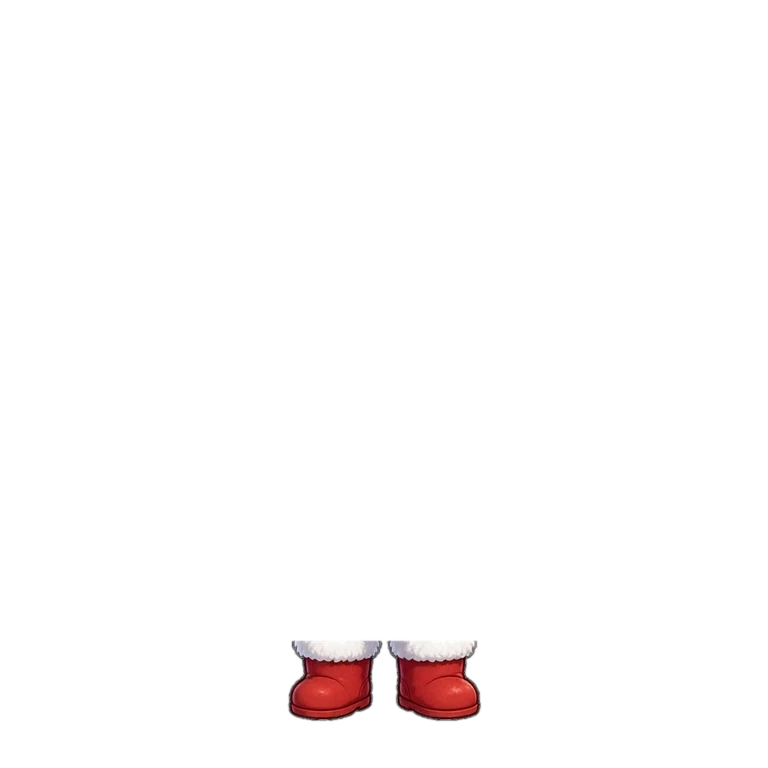
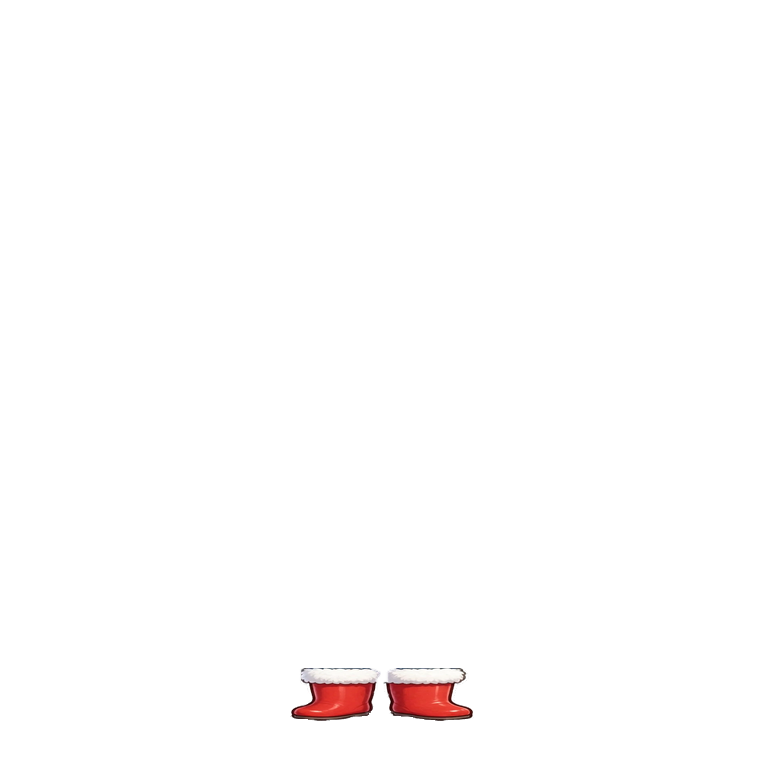
Pi: ủng đỏ viền lông trắng nam Muse vẽ riêng (vẽ thử nhóm Giày đạt) — giày vẽ riêng không chạy bộ làm sạch giày cũ
Claude-Session: https://claude.ai/code/session_0163KSZYdzHDud2uG42gs7mp

Changed region(s): [[0.375, 0.8125, 0.625, 0.9375]]

diff --git a/scripts/pi/build.py b/scripts/pi/build.py
@@ -96,7 +96,7 @@ for side in ("trai", "phai"):
 # 24/10 soát từng món: vệt lá cũ sót xa gốc lá (vùng rộng; KHÔNG áp chung vì vòng hoa có lá thật)
 # 24/10 tối (chủ dự án chốt): món Muse vẽ RIÊNG trên nền trong suốt → chỉ đặt đè lên, KHÔNG chạy bộ cắt lá / vụn (cắt nhầm mũ xanh lá)
 STANDALONE = {  # 25/10: món vẽ riêng đã duyệt ghép
-              "giangsinh-nam-dau01", "giangsinh-nam-dau02", "giangsinh-nam-dau03", "giangsinh-nam-dau04", "giangsinh-nam-dau05", "giangsinh-nam-pk03", "giangsinh-nam-pk12", "giangsinh-nu-dau01", "giangsinh-nu-dau02", "giangsinh-nu-dau04", "giangsinh-nu-pk03", "halloween-nam-dau01", "halloween-nam-dau02", "halloween-nam-dau05", "halloween-nam-pk04", "halloween-nu-dau01", "muadong-nam-dau01", "muadong-nam-dau02", "muadong-nam-dau03", "muadong-nam-dau05", "muadong-nam-pk01", "muadong-nam-pk02", "muadong-nam-pk11", "muadong-nu-dau01", "muadong-nu-dau03", "muadong-nu-dau04", "muadong-nu-pk01", "muadong-nu-pk02", "muahe-nam-dau01", "muahe-nam-dau02", "muahe-nam-dau03", "muahe-nam-dau04", "muahe-nam-pk12", "muahe-nu-dau01", "muahe-nu-dau02", "muahe-nu-dau04", "tet-nam-dau01", "tet-nam-dau02", "tet-nam-dau03", "tet-nam-dau04", "tet-nam-pk03", "tet-nam-pk11", "tet-nu-dau01", "tet-nu-dau02", "tet-nu-dau03", "tet-nu-dau05", "tet-nu-pk04", "tet-nu-pk11", "trungthu-nam-dau01", "trungthu-nam-dau02", "trungthu-nam-dau03", "trungthu-nam-dau04", "trungthu-nam-dau05", "trungthu-nam-pk09", "trungthu-nam-pk10", "trungthu-nam-pk11", "trungthu-nu-dau02", "trungthu-nu-dau05", "trungthu-nu-pk10"}
+              "giangsinh-nam-dau01", "giangsinh-nam-dau02", "giangsinh-nam-dau03", "giangsinh-nam-dau04", "giangsinh-nam-dau05", "giangsinh-nam-pk03", "giangsinh-nam-pk12", "giangsinh-nu-dau01", "giangsinh-nu-dau02", "giangsinh-nu-dau04", "giangsinh-nu-pk03", "halloween-nam-dau01", "halloween-nam-dau02", "halloween-nam-dau05", "halloween-nam-pk04", "halloween-nu-dau01", "muadong-nam-dau01", "muadong-nam-dau02", "muadong-nam-dau03", "muadong-nam-dau05", "muadong-nam-pk01", "muadong-nam-pk02", "muadong-nam-pk11", "muadong-nu-dau01", "muadong-nu-dau03", "muadong-nu-dau04", "muadong-nu-pk01", "muadong-nu-pk02", "muahe-nam-dau01", "muahe-nam-dau02", "muahe-nam-dau03", "muahe-nam-dau04", "muahe-nam-pk12", "muahe-nu-dau01", "muahe-nu-dau02", "muahe-nu-dau04", "tet-nam-dau01", "tet-nam-dau02", "tet-nam-dau03", "tet-nam-dau04", "tet-nam-pk03", "tet-nam-pk11", "tet-nu-dau01", "tet-nu-dau02", "tet-nu-dau03", "tet-nu-dau05", "tet-nu-pk04", "tet-nu-pk11", "trungthu-nam-dau01", "trungthu-nam-dau02", "trungthu-nam-dau03", "trungthu-nam-dau04", "trungthu-nam-dau05", "trungthu-nam-pk09", "trungthu-nam-pk10", "trungthu-nam-pk11", "trungthu-nu-dau02", "trungthu-nu-dau05", "trungthu-nu-pk10", "giangsinh-nam-giay01"}
 SHOE_SCALE = {"tet-nu-giay02": 0.66}
 LEAF_WIDE = {"giangsinh-nam-dau05", "trungthu-nam-dau03", "muahe-nam-dau05", "trungthu-nu-dau02"}
 ARM_HIDE = {"giangsinh-nam-pk07": "trai", "muadong-nam-pk08": "trai", "muadong-nu-pk08": "trai", "muahe-nam-pk05": "trai",
@@ -136,7 +136,7 @@ for it in cat["items"]:
             if _st[_k, 4] < min(1500, _big) and _st[_k, 1] * N / 768 >= 640 * N / 768 and blue_mask(_a[..., :3])[_lab == _k].mean() > 0.8: _rm |= _lab == _k
         if _rm.any():
             _rm = cv2.dilate(_rm.astype(np.uint8), np.ones((5, 5), np.uint8)) > 0; _a[_rm, 3] = 0; im = Image.fromarray(_a); total += put(it["file"], im=im, q=90)
-    if it["slot"] == "giay":  # 24/10 soát từng món: giày tối màu tách nền lỗi → viền trắng răng cưa + mảng da chân dán đè cổ giày
+    if it["slot"] == "giay" and iid not in STANDALONE:  # 24/10 soát từng món: giày tối màu tách nền lỗi → viền trắng răng cưa + mảng da chân dán đè cổ giày
         _a = np.asarray(im).copy(); _op = _a[..., 3] > 100
         if _op.any() and np.median(_a[_op][:, :3].astype(int).mean(-1)) < 80:
             _hsv = cv2.cvtColor(np.ascontiguousarray(_a[..., :3]), cv2.COLOR_RGB2HSV)
